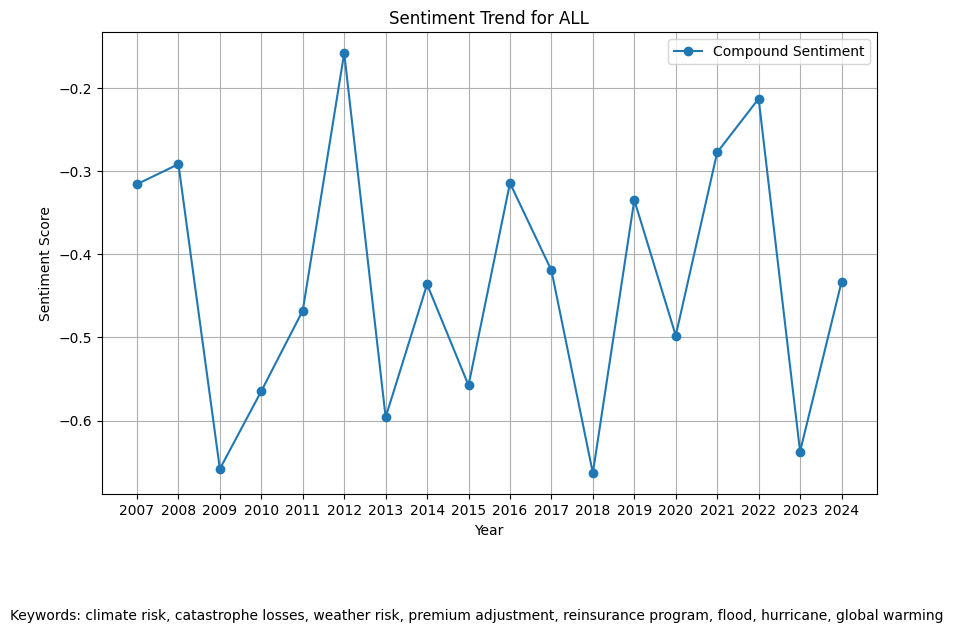
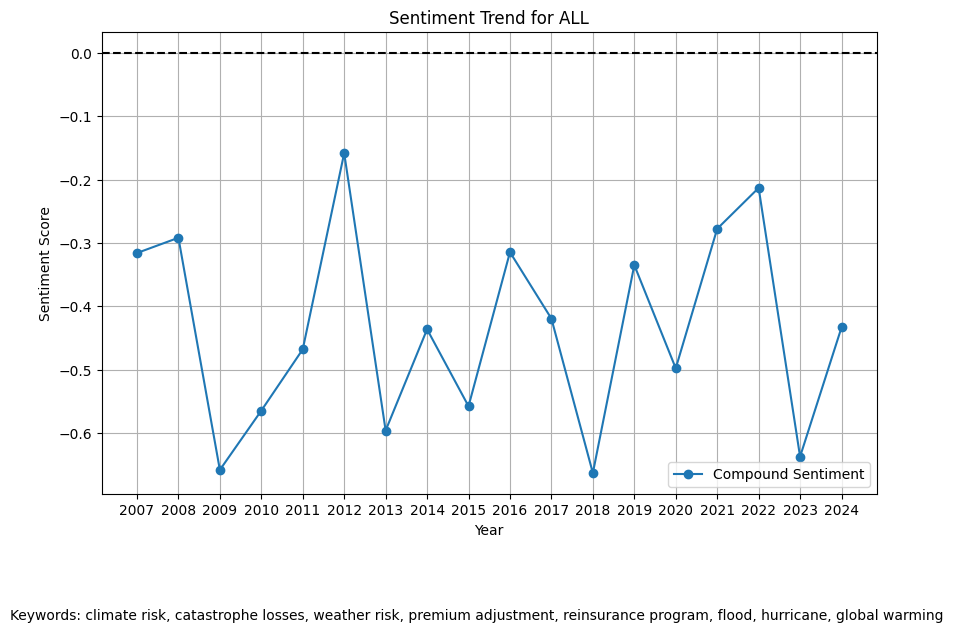
derivative graph

diff --git a/code/analysis.py b/code/analysis.py
@@ -44,18 +44,22 @@ def analyze_sentiment_trends(data):
 
 def plot_sentiment_trends(data, output_folder="plots"):
     """
-    Plot sentiment trends for each ticker and save to the specified folder.
+    Plot sentiment trends and their first derivative for each ticker, and save to the specified folder.
     """
     os.makedirs(output_folder, exist_ok=True)  # Ensure the folder exists
 
+    # Individual plots for each ticker
     for ticker in data["ticker"].unique():
-        ticker_data = data[data["ticker"] == ticker]
+        ticker_data = data[data["ticker"] == ticker].sort_values(by="year")
 
         if ticker_data.empty:
             logging.warning(f"No data available for ticker: {ticker}")
             continue
 
-        # Create the plot
+        # Calculate first derivative (rate of change)
+        ticker_data["sentiment_derivative"] = ticker_data["compound_sentiment"].diff()
+
+        # Plot sentiment trends
         plt.figure(figsize=(10, 6))
         plt.plot(
             ticker_data["year"],
@@ -63,6 +67,7 @@ def plot_sentiment_trends(data, output_folder="plots"):
             marker="o",
             label="Compound Sentiment"
         )
+        plt.axhline(y=0, color="black", linestyle="--", linewidth=1.5)  # Add thicker horizontal line at 0
         plt.title(f"Sentiment Trend for {ticker}")
         plt.xlabel("Year")
         plt.ylabel("Sentiment Score")
@@ -76,46 +81,77 @@ def plot_sentiment_trends(data, output_folder="plots"):
         keyword_text = f"Keywords: {', '.join(keywords)}"
         plt.figtext(0.5, -0.1, keyword_text, wrap=True, horizontalalignment="center", fontsize=10)
 
-        # Save the plot
-        plot_path = os.path.join(output_folder, f"{ticker}_sentiment.png")
+        # Save the sentiment trend plot
+        sentiment_plot_path = os.path.join(output_folder, f"{ticker}_sentiment.png")
         try:
-            plt.savefig(plot_path, bbox_inches="tight")
+            plt.savefig(sentiment_plot_path, bbox_inches="tight")
             plt.close()
-            logging.info(f"Saved sentiment trend plot for {ticker} at {plot_path}.")
+            logging.info(f"Saved sentiment trend plot for {ticker} at {sentiment_plot_path}.")
         except Exception as e:
-            logging.error(f"Error saving plot for {ticker} to {plot_path}: {e}")
+            logging.error(f"Error saving sentiment plot for {ticker}: {e}")
 
-    # Combined plot for all tickers
-    plt.figure(figsize=(10, 6))
-    for ticker in data["ticker"].unique():
-        ticker_data = data[data["ticker"] == ticker]
-        if ticker_data.empty:
-            continue
+        # Plot the first derivative of sentiment
+        plt.figure(figsize=(10, 6))
         plt.plot(
             ticker_data["year"],
-            ticker_data["compound_sentiment"],
+            ticker_data["sentiment_derivative"],
+            marker="o",
+            label="Sentiment Derivative",
+            color="orange"
+        )
+        plt.axhline(y=0, color="black", linestyle="--", linewidth=1.5)  # Add thicker horizontal line at 0
+        plt.title(f"Rate of Change in Sentiment for {ticker}")
+        plt.xlabel("Year")
+        plt.ylabel("Change in Sentiment")
+        plt.grid()
+        plt.legend()
+
+        # Format the x-axis for full years
+        plt.xticks(ticker_data["year"].unique().astype(int))
+
+        # Save the derivative plot
+        derivative_plot_path = os.path.join(output_folder, f"{ticker}_sentiment_derivative.png")
+        try:
+            plt.savefig(derivative_plot_path, bbox_inches="tight")
+            plt.close()
+            logging.info(f"Saved sentiment derivative plot for {ticker} at {derivative_plot_path}.")
+        except Exception as e:
+            logging.error(f"Error saving derivative plot for {ticker}: {e}")
+
+    # Combined plot for all tickers (sentiment derivative)
+    plt.figure(figsize=(10, 6))
+    for ticker in data["ticker"].unique():
+        ticker_data = data[data["ticker"] == ticker].sort_values(by="year")
+        if ticker_data.empty:
+            continue
+        ticker_data["sentiment_derivative"] = ticker_data["compound_sentiment"].diff()
+        plt.plot(
+            ticker_data["year"],
+            ticker_data["sentiment_derivative"],
             marker="o",
             label=ticker
         )
-    plt.title("Sentiment Trends Across All Tickers")
+    plt.axhline(y=0, color="black", linestyle="--", linewidth=1.5)  # Add thicker horizontal line at 0
+    plt.title("Rate of Change in Sentiment Across All Tickers")
     plt.xlabel("Year")
-    plt.ylabel("Sentiment Score")
-    plt.legend(title="Ticker")
+    plt.ylabel("Change in Sentiment")
     plt.grid()
+    plt.legend(title="Ticker")
 
     # Format the x-axis for full years
     plt.xticks(data["year"].unique().astype(int))
 
-    # Add keywords below the plot
+    # Add keywords below the combined plot
     plt.figtext(0.5, -0.1, keyword_text, wrap=True, horizontalalignment="center", fontsize=10)
 
-    combined_plot_path = os.path.join(output_folder, "all_tickers_sentiment.png")
+    combined_derivative_plot_path = os.path.join(output_folder, "all_tickers_sentiment_derivative.png")
     try:
-        plt.savefig(combined_plot_path, bbox_inches="tight")
+        plt.savefig(combined_derivative_plot_path, bbox_inches="tight")
         plt.close()
-        logging.info(f"Saved combined sentiment trend plot for all tickers at {combined_plot_path}.")
+        logging.info(f"Saved combined sentiment derivative plot at {combined_derivative_plot_path}.")
     except Exception as e:
-        logging.error(f"Error saving combined plot to {combined_plot_path}: {e}")
+        logging.error(f"Error saving combined derivative plot: {e}")
+
 
 def perform_analysis():
     """
